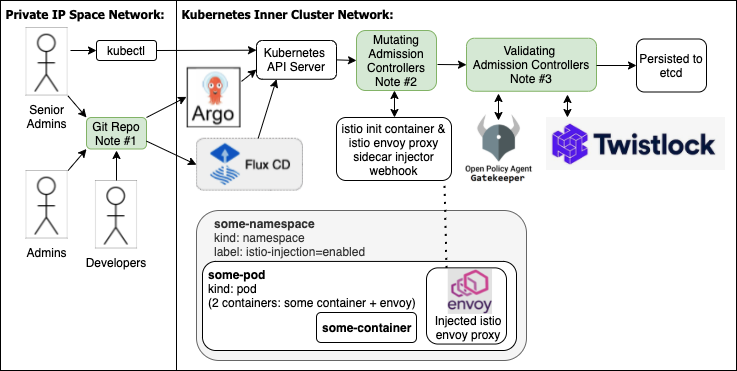
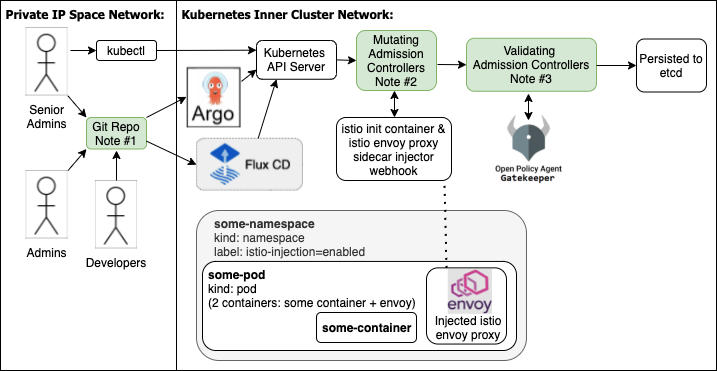
simplified diagram

diff --git a/docs/understanding_bigbang/kube-apiserver_webhooks_diagram.md b/docs/understanding_bigbang/kube-apiserver_webhooks_diagram.md
@@ -32,7 +32,6 @@
 
 #### 3. Validating Admission Controllers
 
-* Open Policy Agent Gatekeeper and Twistlock can be used as Validating Admission Controls.
+* Open Policy Agent Gatekeeper is used as a Validating Admission Controller.
 * As of BigBang 1.7.0 OPA GK defaults to dry-run/warn and not blocking/enforcing mode,  [there are plans to change the default behavior to blocking/enforcing mode.](https://repo1.dso.mil/platform-one/big-bang/bigbang/-/issues/468)
 * OPA GK can enforce security policy such as only allowing whitelisted container registries, PodSecurityPolicies equivalent functionality, and more.
-* Twistlock Validating Admission is disabled by default as it requires a license, it can add additional security controls.
